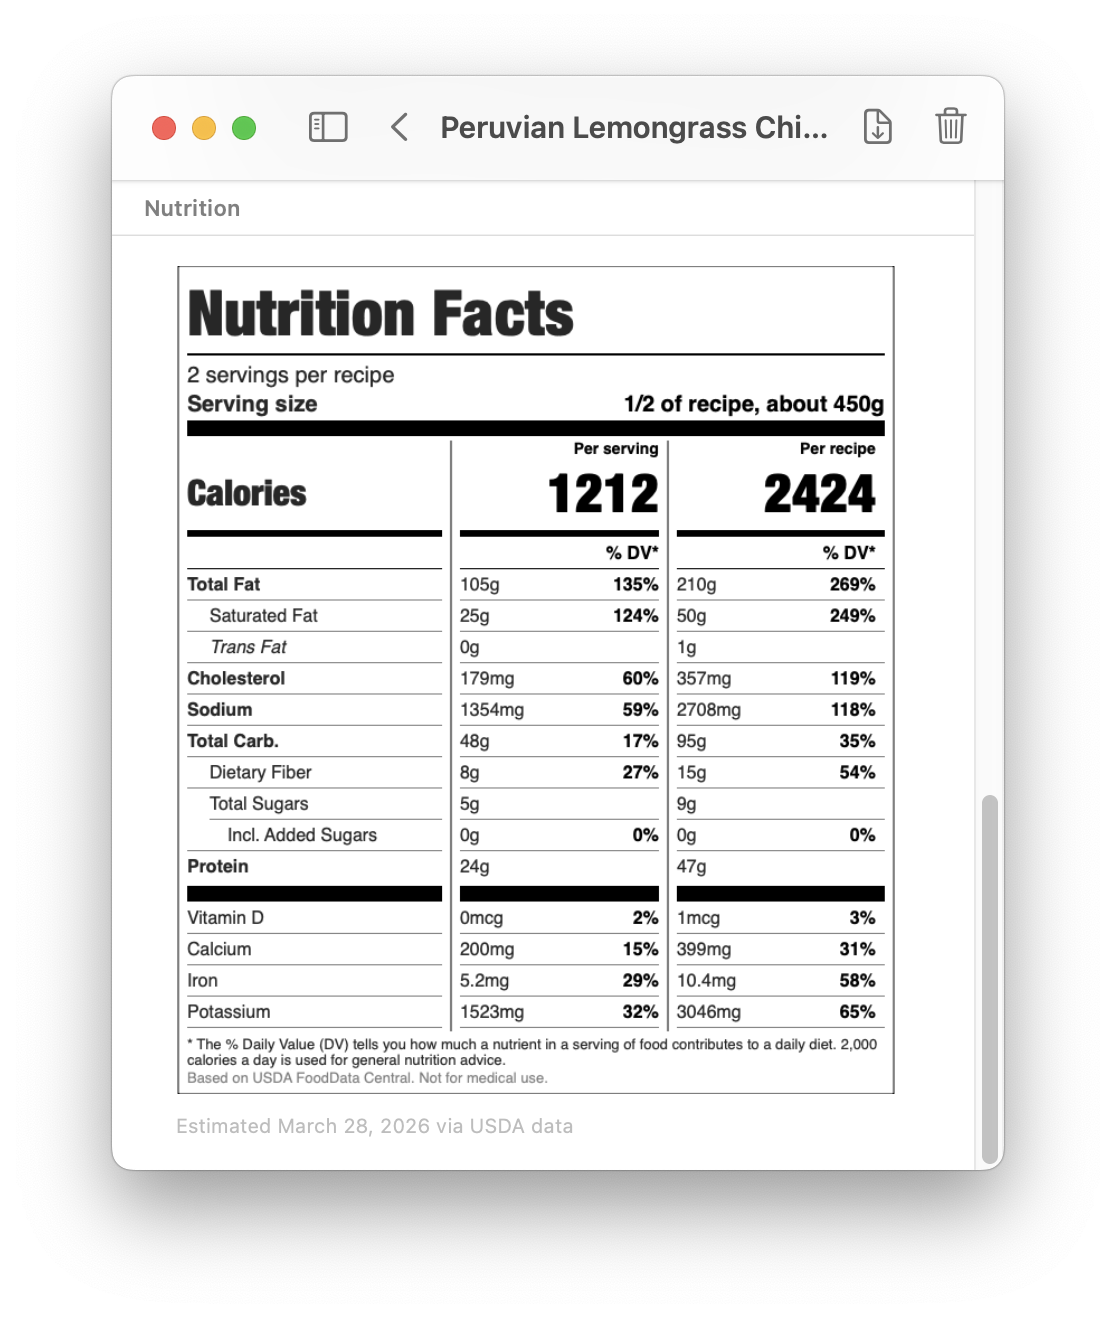
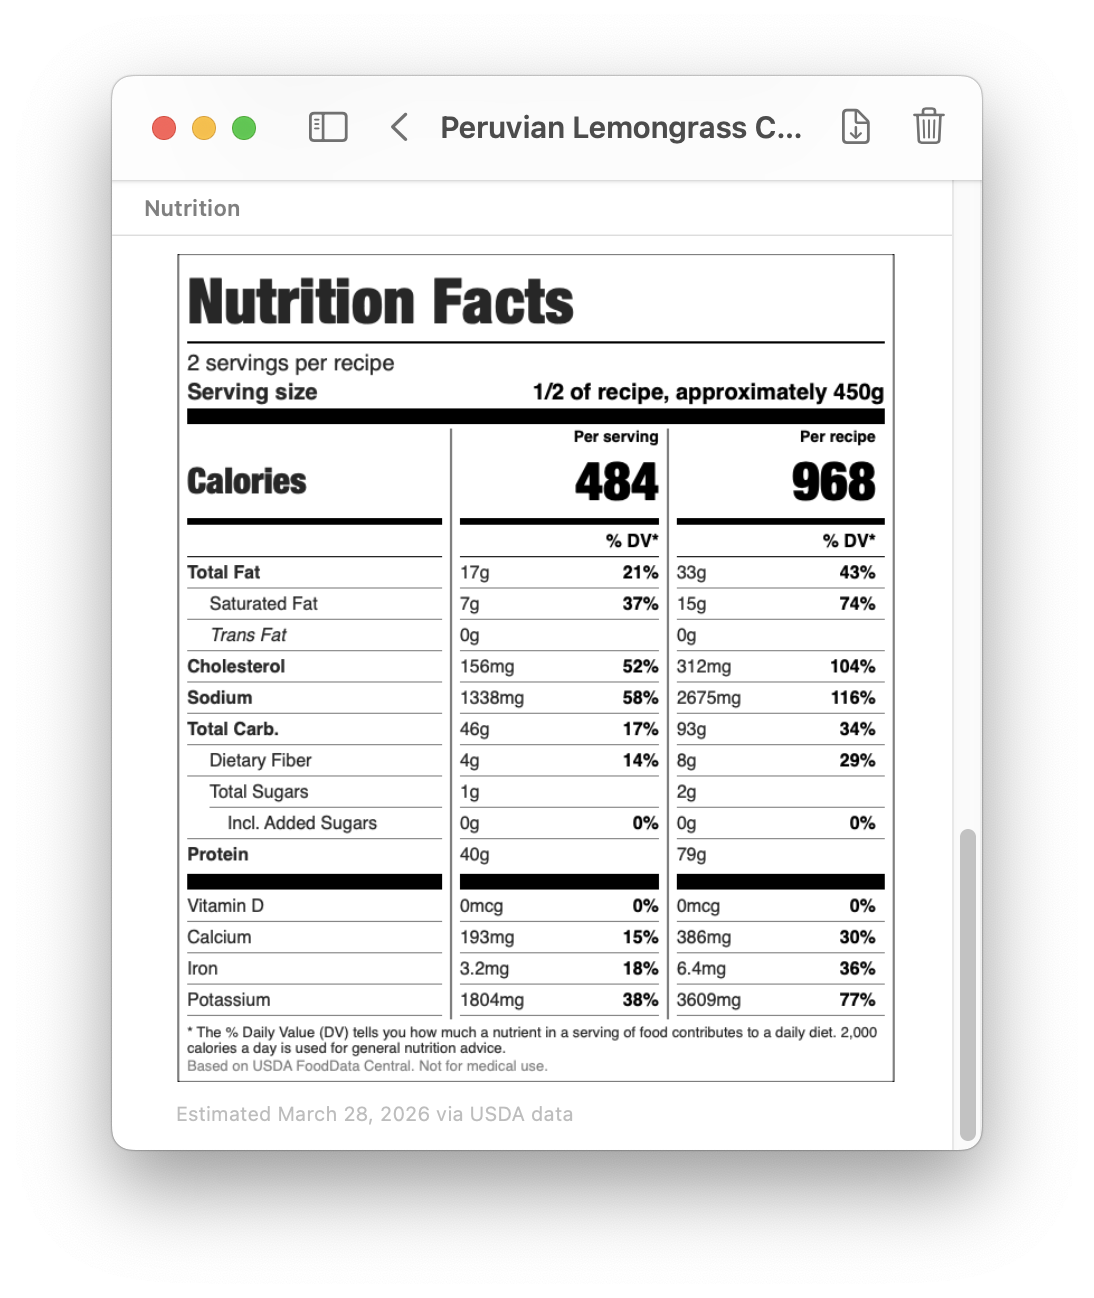
Update nutrition label screenshot with corrected values

diff --git a/index.html b/index.html
@@ -618,7 +618,7 @@
     <!-- Nutrition Labels -->
     <section class="feature reverse">
         <div class="feature-screenshot" style="background-color: transparent; box-shadow: none; overflow: visible; border-radius: 0;">
-            <img src="images/screenshot-nutrition-label.webp" alt="FDA-style Nutrition Facts label in app window showing per serving and per recipe columns with calories, macronutrients, and micronutrients including Vitamin D, Calcium, Iron, and Potassium" width="1116" height="1318" loading="lazy" style="border-radius: 0; width: 60%; height: auto;" tabindex="0" role="button" aria-label="View larger: nutrition label screenshot">
+            <img src="images/screenshot-nutrition-label.webp" alt="FDA-style Nutrition Facts label in app window showing per serving and per recipe columns with calories, macronutrients, and micronutrients including Vitamin D, Calcium, Iron, and Potassium" width="1094" height="1298" loading="lazy" style="border-radius: 0; width: 60%; height: auto;" tabindex="0" role="button" aria-label="View larger: nutrition label screenshot">
         </div>
         <div class="feature-text">
             <h3>Nutrition labels for every recipe</h3>
